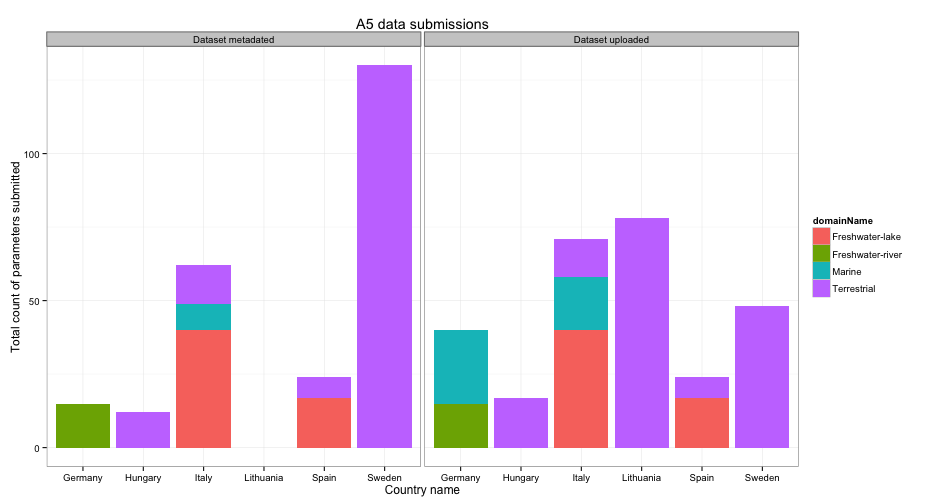
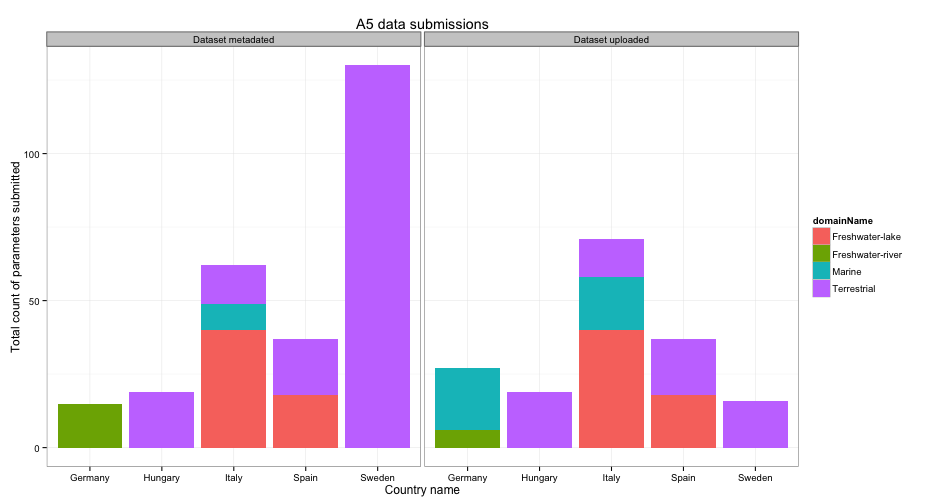
publishing deck

diff --git a/index.html b/index.html
@@ -48,9 +48,9 @@
   </hgroup>
   <article>
     <ul>
-<li>Last updated <code>2013-03-13</code></li>
+<li>Last updated <code>2013-03-25</code></li>
 <li>Deadline for data submission: <code>2013-03-08</code></li>
-<li>Days to deadline: <code>-5</code></li>
+<li>Days to deadline: <code>-17</code></li>
 <li>Total number of sites sampled in 2012: <code>61</code>; sub-sites: <code>65</code></li>
 </ul>
 
@@ -58,13 +58,13 @@
 
 <!-- html table generated in R 2.15.3 by xtable 1.7-0 package -->
 
-<!-- Wed Mar 13 12:45:47 2013 -->
+<!-- Mon Mar 25 09:38:20 2013 -->
 
 <TABLE border=1>
 <TR> <TH>  </TH> <TH> No. uploaded </TH> <TH> No. metadated </TH> <TH> Total no. </TH> <TH> Upload ratio </TH> <TH> Metadata ratio </TH>  </TR>
-  <TR> <TD align="right"> Year2012 </TD> <TD align="right"> 199 </TD> <TD align="right"> 192 </TD> <TD align="right"> 2025 </TD> <TD align="right"> 0.10 </TD> <TD align="right"> 0.09 </TD> </TR>
-  <TR> <TD align="right"> Year2011 </TD> <TD align="right">  79 </TD> <TD align="right">  51 </TD> <TD align="right"> 265 </TD> <TD align="right"> 0.30 </TD> <TD align="right"> 0.19 </TD> </TR>
-  <TR> <TD align="right"> Sum </TD> <TD align="right"> 278 </TD> <TD align="right"> 243 </TD> <TD align="right"> 2290 </TD> <TD align="right"> 0.12 </TD> <TD align="right"> 0.11 </TD> </TR>
+  <TR> <TD align="right"> Year2012 </TD> <TD align="right"> 152 </TD> <TD align="right"> 209 </TD> <TD align="right"> 2025 </TD> <TD align="right"> 0.08 </TD> <TD align="right"> 0.10 </TD> </TR>
+  <TR> <TD align="right"> Year2011 </TD> <TD align="right">  18 </TD> <TD align="right">  54 </TD> <TD align="right"> 265 </TD> <TD align="right"> 0.07 </TD> <TD align="right"> 0.20 </TD> </TR>
+  <TR> <TD align="right"> Sum </TD> <TD align="right"> 170 </TD> <TD align="right"> 263 </TD> <TD align="right"> 2290 </TD> <TD align="right"> 0.07 </TD> <TD align="right"> 0.11 </TD> </TR>
    </TABLE>
 
   </article>

diff --git a/index.md b/index.md
@@ -26,19 +26,19 @@ github:
 
 ## State of uploading process
 
-* Last updated ``2013-03-13``
+* Last updated ``2013-03-25``
 * Deadline for data submission: `2013-03-08`
-* Days to deadline: ``-5``
+* Days to deadline: ``-17``
 * Total number of sites sampled in 2012: ``61``; sub-sites: ``65``
 
 Parameters uploaded and metadated:
 <!-- html table generated in R 2.15.3 by xtable 1.7-0 package -->
-<!-- Wed Mar 13 12:45:47 2013 -->
+<!-- Mon Mar 25 09:38:20 2013 -->
 <TABLE border=1>
 <TR> <TH>  </TH> <TH> No. uploaded </TH> <TH> No. metadated </TH> <TH> Total no. </TH> <TH> Upload ratio </TH> <TH> Metadata ratio </TH>  </TR>
-  <TR> <TD align="right"> Year2012 </TD> <TD align="right"> 199 </TD> <TD align="right"> 192 </TD> <TD align="right"> 2025 </TD> <TD align="right"> 0.10 </TD> <TD align="right"> 0.09 </TD> </TR>
-  <TR> <TD align="right"> Year2011 </TD> <TD align="right">  79 </TD> <TD align="right">  51 </TD> <TD align="right"> 265 </TD> <TD align="right"> 0.30 </TD> <TD align="right"> 0.19 </TD> </TR>
-  <TR> <TD align="right"> Sum </TD> <TD align="right"> 278 </TD> <TD align="right"> 243 </TD> <TD align="right"> 2290 </TD> <TD align="right"> 0.12 </TD> <TD align="right"> 0.11 </TD> </TR>
+  <TR> <TD align="right"> Year2012 </TD> <TD align="right"> 152 </TD> <TD align="right"> 209 </TD> <TD align="right"> 2025 </TD> <TD align="right"> 0.08 </TD> <TD align="right"> 0.10 </TD> </TR>
+  <TR> <TD align="right"> Year2011 </TD> <TD align="right">  18 </TD> <TD align="right">  54 </TD> <TD align="right"> 265 </TD> <TD align="right"> 0.07 </TD> <TD align="right"> 0.20 </TD> </TR>
+  <TR> <TD align="right"> Sum </TD> <TD align="right"> 170 </TD> <TD align="right"> 263 </TD> <TD align="right"> 2290 </TD> <TD align="right"> 0.07 </TD> <TD align="right"> 0.11 </TD> </TR>
    </TABLE>
 
 
